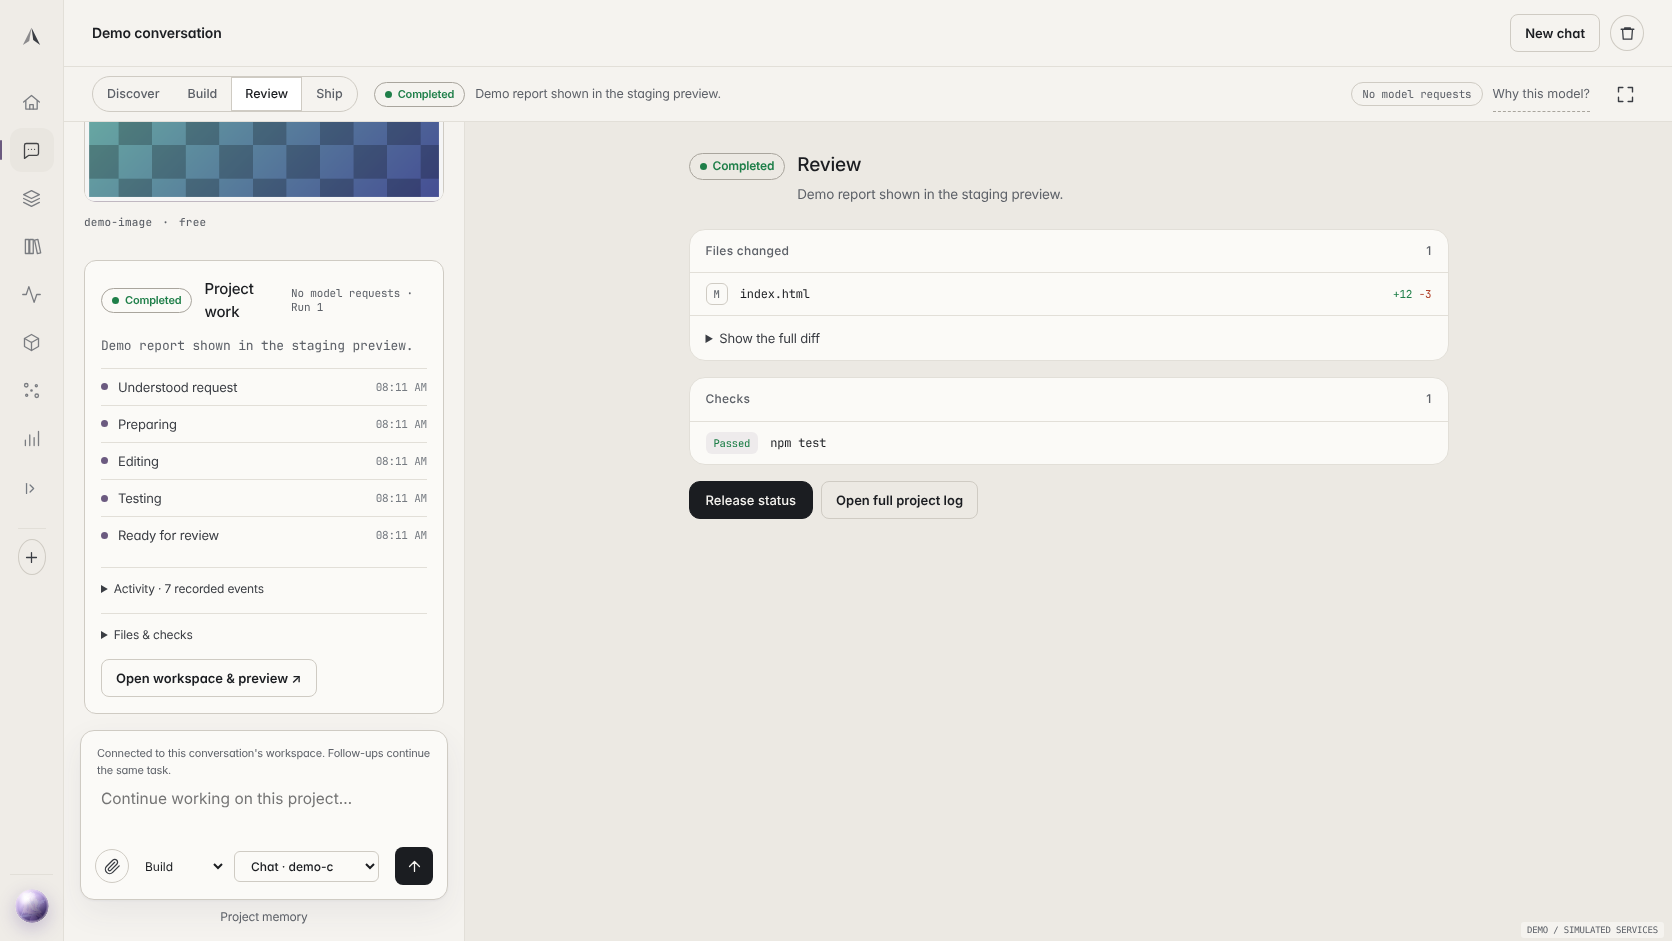
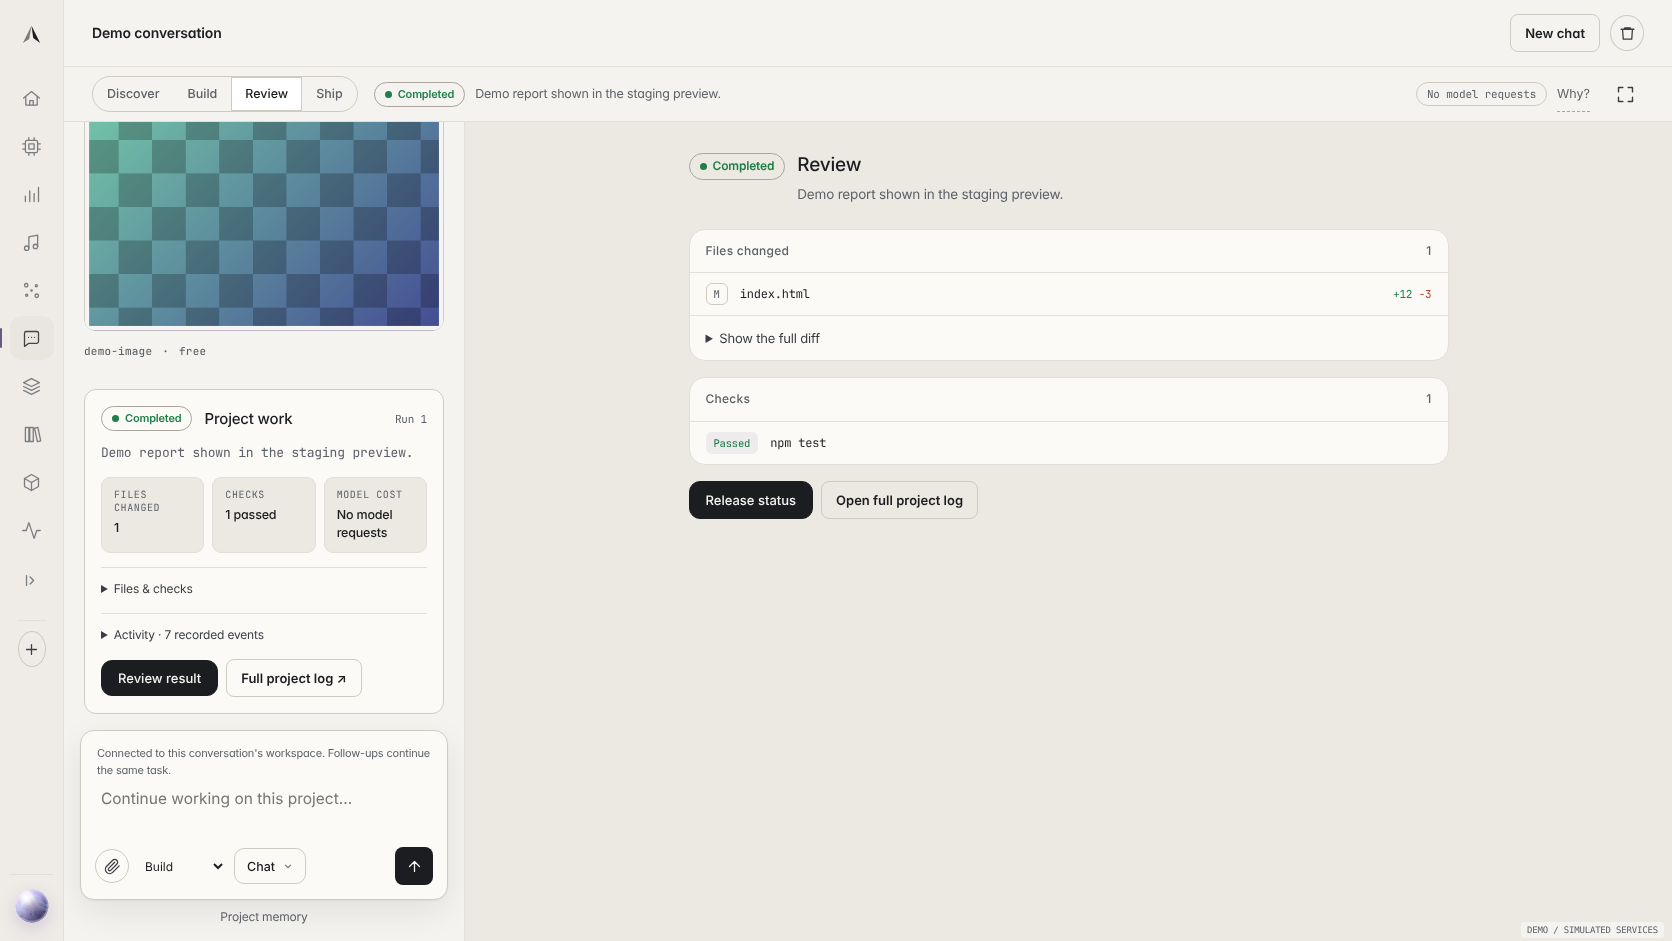
NOVA UI recovery: searchable model picker, working preview, layout defects
- Preview server crashed on start (demo seed wrote nonexistent ledger columns and fake $7.50
  'confirmed' charges): removed, so visual inspection works again.
- One searchable model picker (dialog; bottom sheet on phones): filter by name/provider/ID, provider
  groups, favorites + recent (cookie), real availability, arrows/Enter/Esc, combobox/listbox roles.
  Enhances the role selects and the provider catalog in the route editor; native selects stay the state.
- Removed the clipped static 'Operational' badge and the duplicate Project nav item.
- Fixed three JS errors (menus removed by an earlier change), mobile status strip, release row spacing.
- Browser smoke updated for the current mobile navigation (the old menu button no longer exists).

Claude-Session: https://claude.ai/code/session_01YF5NeTSrtcmBDcpsV6P5uA

diff --git a/autopilot/app/static/dashboard.html b/autopilot/app/static/dashboard.html
@@ -826,6 +826,27 @@ button.primary,a.primary{background:var(--send);color:var(--send-ink);border:1px
 .brandsub{font-size:8.5px;font-weight:600;letter-spacing:.22em;text-transform:uppercase;color:var(--faint)}
 .brandmini{font-size:15px!important;font-weight:750!important;letter-spacing:-.02em!important}
 .sidebadge{margin:18px 10px 8px;padding:10px 12px;background:var(--hover);border:1px solid var(--line);border-radius:8px;font:500 11px var(--mono);color:var(--accent);letter-spacing:.06em;text-align:center;opacity:.9}
+
+/* ── Model picker: one searchable selector for roles and the provider catalog ── */
+.mpbtn{display:inline-flex;align-items:center;gap:6px;min-height:36px;max-width:260px;padding:0 10px 0 12px;border:1px solid var(--line2);border-radius:10px;background:var(--panel);color:var(--text);font:500 12.5px var(--sans);cursor:pointer;min-width:0}
+.mpbtn span{overflow:hidden;text-overflow:ellipsis;white-space:nowrap;min-width:0}.mpbtn svg{flex:none;width:14px;height:14px;stroke:currentColor;fill:none;stroke-width:2;opacity:.6}
+.mpbtn:hover{background:var(--hover)}.mpbtn.add{border-style:dashed;color:var(--muted)}
+select.mp-native{position:absolute!important;width:1px!important;height:1px!important;opacity:0!important;pointer-events:none!important;overflow:hidden}
+#mpDlg{border:1px solid var(--line2);border-radius:18px;background:var(--raise);color:var(--text);padding:0;width:min(560px,calc(100vw - 24px));max-height:min(640px,calc(100dvh - 48px));box-shadow:0 24px 64px rgba(0,0,0,.35);overflow:hidden}
+#mpDlg[open]{display:flex;flex-direction:column}#mpDlg::backdrop{background:rgba(8,8,10,.5)}
+.mphead{padding:16px 16px 10px;border-bottom:1px solid var(--line)}.mphead b{display:block;font-weight:500;font-size:15px;margin-bottom:10px}
+#mpQ{width:100%;font-size:15px;min-height:42px}
+#mpList{overflow:auto;flex:1;min-height:120px;padding:6px 8px 10px;overscroll-behavior:contain}
+.mpg{font:500 10.5px var(--mono);letter-spacing:.12em;text-transform:uppercase;color:var(--faint);padding:12px 8px 6px}
+.mpi{display:grid;grid-template-columns:minmax(0,1fr) auto;gap:2px 10px;align-items:center;width:100%;text-align:left;border:0;background:transparent;color:inherit;font:inherit;padding:9px 10px;border-radius:10px;cursor:pointer;min-height:48px}
+.mpi b{font-weight:500;font-size:14px;overflow:hidden;text-overflow:ellipsis;white-space:nowrap}.mpi small{grid-column:1;color:var(--muted);font-size:12px;overflow:hidden;text-overflow:ellipsis;white-space:nowrap}
+.mpi.act,.mpi:hover{background:var(--hover)}.mpi[aria-selected="true"] b:after{content:" ✓";color:var(--accent)}.mpi.off{opacity:.55}
+.mpi .fav{grid-row:1/3;grid-column:2;border:0;background:transparent;color:var(--faint);font-size:17px;cursor:pointer;width:36px;height:36px;border-radius:8px}.mpi .fav.on{color:var(--accent)}
+.mpfoot{padding:8px 16px;border-top:1px solid var(--line);font-size:11.5px;color:var(--faint);display:flex;justify-content:space-between;gap:8px}
+@media(max-width:860px){#mpDlg{width:100vw;max-width:100vw;max-height:88dvh;margin:auto 0 0;border-radius:18px 18px 0 0;border-bottom:0}
+  .mpfoot{padding-bottom:max(8px,env(safe-area-inset-bottom))}.mpfoot .k{display:none}.mpbtn{max-width:52vw;min-height:40px}}
+.rel-meta{display:flex;flex-direction:column;gap:2px;min-width:0;flex:1}.rel-meta small{color:var(--muted)}.rel-row{align-items:center;gap:12px;flex-wrap:nowrap}
+@media(max-width:860px){#stStrip{gap:8px}#stWhy{flex:none}#stCost{font-size:10.5px;padding:3px 8px}.rel-row{flex-wrap:wrap}}
 </style>
 </head>
 <body>
@@ -840,11 +861,10 @@ button.primary,a.primary{background:var(--send);color:var(--send-ink);border:1px
     <button data-view="chat"><svg class="ic" viewBox="0 0 24 24" aria-hidden="true"><path d="M20 15.5a2 2 0 0 1-2 2H9l-5 3.5V6a2 2 0 0 1 2-2h12a2 2 0 0 1 2 2z"/><path d="M8.5 10.7h.01M12 10.7h.01M15.5 10.7h.01"/></svg>Chat</button>
     <button data-view="agent"><svg class="ic" viewBox="0 0 24 24" aria-hidden="true"><path d="m12 3 9 4.5-9 4.5-9-4.5z"/><path d="m3 12 9 4.5 9-4.5"/><path d="m3 16.5 9 4.5 9-4.5"/></svg>Agent</button>
     <button data-view="library"><svg class="ic" viewBox="0 0 24 24" aria-hidden="true"><path d="M5 4h4v16H5zM10 4h4v16h-4z"/><path d="m15.5 4.8 3.8-1 3.2 15.5-3.8.9z"/></svg>Library</button>
-    <button data-view="project"><svg class="ic" viewBox="0 0 24 24" aria-hidden="true"><path d="M5 4h4v16H5zM10 4h4v16h-4z"/><path d="m15.5 4.8 3.8-1 3.2 15.5-3.8.9z"/></svg>Project</button>
+    
     <button data-view="models"><svg class="ic" viewBox="0 0 24 24" aria-hidden="true"><path d="m12 2.8 8 4.6v9.2l-8 4.6-8-4.6V7.4z"/><path d="m4 7.4 8 4.6 8-4.6M12 12v9.2"/></svg>Models</button>
     <button data-view="activity"><svg class="ic" viewBox="0 0 24 24" aria-hidden="true"><path d="M22 12h-4l-3 9L9 3l-3 9H2"/></svg>Activity</button>
   </nav>
-  <div class="sidebadge">NOVA Core · AI Development Engine · Operational</div>
   <button class="navbtn" type="button" id="railToggle" title="Collapse or expand navigation" aria-label="Collapse or expand navigation"><svg class="ic" viewBox="0 0 24 24" aria-hidden="true"><path d="m14 7-5 5 5 5"/><path d="M19 5v14"/></svg>Collapse</button>
   <div class="sidehead"><span id="sideLabel">Conversations</span><button class="iconbtn" id="sideNew" title="New chat" style="width:28px;height:28px"><svg class="ic" viewBox="0 0 24 24" aria-hidden="true"><path d="M5 12h14M12 5v14"/></svg></button></div>
   <div id="convList"></div>
@@ -855,6 +875,7 @@ button.primary,a.primary{background:var(--send);color:var(--send-ink);border:1px
 </aside>
 <div id="scrim"></div>
 <div id="toasts" role="status" aria-live="polite"></div>
+<dialog id="mpDlg" aria-labelledby="mpTitle"><div class="mphead"><b id="mpTitle">Choose a model</b><input id="mpQ" type="search" role="combobox" aria-expanded="true" aria-controls="mpList" aria-autocomplete="list" placeholder="Search by name, provider or ID…" autocomplete="off" spellcheck="false"></div><div id="mpList" role="listbox" aria-label="Models"></div><div class="mpfoot"><span id="mpCount"></span><span class="k">↑↓ move · Enter select · Esc close</span></div></dialog>
 <nav id="bottomNav" class="admin-only" aria-label="Main">
 <button type="button" data-view="home"><svg class="ic" viewBox="0 0 24 24" aria-hidden="true"><path d="M3 11.5 12 4l9 7.5"/><path d="M5.5 10v9.5h13V10"/></svg><span>Home</span></button>
   <button type="button" data-view="music"><svg class="ic" viewBox="0 0 24 24" aria-hidden="true"><path d="M9 18.5V5.5l10-2v13"/><circle cx="6.5" cy="18.5" r="2.5"/><circle cx="16.5" cy="16.5" r="2.5"/></svg><span>Music</span></button>
@@ -1098,7 +1119,7 @@ button.primary,a.primary{background:var(--send);color:var(--send-ink);border:1px
       </div>
       <div id="modeBar" hidden>
         <div class="seg" id="stModes" role="tablist" aria-label="Workspace mode"><button type="button" role="tab" data-mode="discover" title="Conversation and references">Discover</button><button type="button" role="tab" data-mode="build" title="Live preview next to the conversation">Build</button><button type="button" role="tab" data-mode="review" title="Changes, checks and screenshots">Review</button><button type="button" role="tab" data-mode="ship" title="Pull request, merge and deployment">Ship</button></div>
-        <div id="stStrip" role="status"><span class="oc" id="stPill"></span><span id="stNow"></span><span id="stCost"></span><button class="copyid" type="button" id="stWhy">Why this model?</button></div>
+        <div id="stStrip" role="status"><span class="oc" id="stPill"></span><span id="stNow"></span><span id="stCost"></span><button class="copyid" type="button" id="stWhy" title="Why this model? See the routing decision">Why?</button></div>
         <button class="iconbtn plain" type="button" id="stFocus" title="Focus on the work surface" aria-label="Focus on the work surface" aria-pressed="false"><svg class="ic" viewBox="0 0 24 24" aria-hidden="true"><path d="M4 9V4h5M20 9V4h-5M4 15v5h5M20 15v5h-5"/></svg></button>
       </div>
       <div class="msgs" id="msgs"></div>
@@ -1582,7 +1603,7 @@ button.primary,a.primary{background:var(--send);color:var(--send-ink);border:1px
     $("greet").innerHTML = name ? esc(part) + ", <b>" + esc(name) + ".</b>" : esc(part) + ".";
   }
   $("meMore").onclick = (e) => { e.stopPropagation(); acctOpen(); };
-  document.addEventListener("click", (e) => { if (!$("me").contains(e.target)) $("meMenu").hidden = true; });
+  document.addEventListener("click", (e) => { const menu = $("meMenu"); if (menu && !$("me").contains(e.target)) menu.hidden = true; });
   document.querySelectorAll("[data-theme-set]").forEach(b => b.onclick = () => setTheme(b.dataset.themeSet, true));
   $("btnTheme").onclick = () => setTheme(themeNow() === "dark" ? "light" : "dark", true);
   $("meNameSave").onclick = async () => { try { const st = await send("settings", "PUT", { owner_name: $("meNameIn").value.trim() }); if (S && S.settings) { S.settings.owner_name = st.owner_name; identity(S); } $("meMenu").hidden = true; } catch (e) { toast(e.message); } };
@@ -2107,7 +2128,7 @@ button.primary,a.primary{background:var(--send);color:var(--send-ink);border:1px
     if (!title) { toast("Give the objective a title."); return; }
     try { await send("mission/objective", "POST", { title, detail: $("mcObjDetailIn").value.trim() }); await loadMission(); } catch (e) { toast(e.message); }
   });
-  document.addEventListener("keydown", (e) => { if ((e.ctrlKey || e.metaKey) && e.key.toLowerCase() === "k" && document.body.classList.contains("is-admin")) { e.preventDefault(); openSearch(); } else if (e.key === "Escape") { $("searchBox").hidden = true; $("meMenu").hidden = true; } });
+  document.addEventListener("keydown", (e) => { if ((e.ctrlKey || e.metaKey) && e.key.toLowerCase() === "k" && document.body.classList.contains("is-admin")) { e.preventDefault(); openSearch(); } else if (e.key === "Escape") { $("searchBox").hidden = true; if ($("meMenu")) $("meMenu").hidden = true; } });
 
   // chat
   let CONV = null, chatAtts = [], CONV_LOAD = 0;
@@ -2561,6 +2582,72 @@ button.primary,a.primary{background:var(--send);color:var(--send-ink);border:1px
       try { await send("agent/tasks/" + tid + "/publish", "POST", {}); toast("Pull request prepared.", "ok"); await refreshWork(); await shLoad(true); } catch (e) { toast(e.message); shRender(); } });
   }
 
+
+  // ── Model picker (one component): searchable, grouped, favorites + recent kept in a cookie, keyboard ──
+  const MP = { items: [], onPick: null, cur: "", act: 0, shown: [] };
+  const mpStore = () => { try { return JSON.parse(decodeURIComponent((document.cookie.match(/(?:^|; )nova_models=([^;]*)/) || [])[1] || "")) || {}; } catch (e) { return {}; } };
+  const mpSave = (st) => { document.cookie = "nova_models=" + encodeURIComponent(JSON.stringify({ fav: (st.fav || []).slice(0, 20), rec: (st.rec || []).slice(0, 8) })) + "; path=/autopilot; max-age=31536000; SameSite=Lax"; };
+  function pickModel(opts) {
+    MP.items = opts.items; MP.onPick = opts.onPick; MP.cur = opts.current || ""; MP.act = 0;
+    $("mpTitle").textContent = opts.title || "Choose a model"; $("mpQ").value = "";
+    mpRender(); $("mpDlg").showModal(); $("mpQ").focus();
+  }
+  function mpRender() {
+    const q = $("mpQ").value.trim().toLowerCase().split(/\s+/).filter(Boolean), st = mpStore(), fav = st.fav || [], rec = st.rec || [];
+    const match = (it) => q.every(w => (it.label + " " + it.value + " " + (it.group || "") + " " + (it.sub || "")).toLowerCase().includes(w));
+    const hits = MP.items.filter(match), groups = [];
+    if (!q.length) {
+      const f = MP.items.filter(i => fav.includes(i.value)), r = rec.map(v => MP.items.find(i => i.value === v)).filter(i => i && !fav.includes(i.value));
+      if (f.length) groups.push(["Favorites", f]); if (r.length) groups.push(["Recent", r]);
+    }
+    const byGroup = new Map(); hits.forEach(i => { const g = i.group || "Models"; if (!byGroup.has(g)) byGroup.set(g, []); byGroup.get(g).push(i); });
+    byGroup.forEach((v, k) => groups.push([k, v]));
+    MP.shown = []; let html = "", n = 0, LIMIT = 400;
+    for (const [g, list] of groups) {
+      if (n >= LIMIT) break; html += `<div class="mpg" role="presentation">${esc(g)}</div>`;
+      for (const it of list) { if (n >= LIMIT) break; const idx = MP.shown.length; MP.shown.push(it); n++;
+        html += `<div class="mpi${idx === MP.act ? " act" : ""}${it.disabled ? " off" : ""}" role="option" id="mpo${idx}" data-i="${idx}" aria-selected="${it.value === MP.cur}"><b>${esc(it.label)}</b>${it.sub ? `<small>${esc(it.sub)}</small>` : ""}<button type="button" class="fav${fav.includes(it.value) ? " on" : ""}" data-fav="${esc(it.value)}" aria-label="${fav.includes(it.value) ? "Remove from" : "Add to"} favorites" tabindex="-1">${fav.includes(it.value) ? "★" : "☆"}</button></div>`; }
+    }
+    $("mpList").innerHTML = html || `<div class="mpg">No model matches “${esc($("mpQ").value)}”.</div>`;
+    $("mpCount").textContent = hits.length > LIMIT ? `${LIMIT} of ${hits.length} shown · refine the search` : `${hits.length} model${hits.length === 1 ? "" : "s"}`;
+    $("mpQ").setAttribute("aria-activedescendant", MP.shown.length ? "mpo" + MP.act : "");
+  }
+  function mpChoose(it) {
+    if (!it) return; const st = mpStore(); st.rec = [it.value, ...(st.rec || []).filter(v => v !== it.value)]; mpSave(st);
+    $("mpDlg").close(); MP.onPick && MP.onPick(it.value);
+  }
+  $("mpQ").addEventListener("input", () => { MP.act = 0; mpRender(); });
+  $("mpQ").addEventListener("keydown", (e) => {
+    if (e.key === "ArrowDown" || e.key === "ArrowUp") { e.preventDefault(); if (!MP.shown.length) return;
+      MP.act = (MP.act + (e.key === "ArrowDown" ? 1 : -1) + MP.shown.length) % MP.shown.length;
+      $("mpList").querySelectorAll(".mpi").forEach(el => el.classList.toggle("act", +el.dataset.i === MP.act));
+      const el = $("mpo" + MP.act); el && el.scrollIntoView({ block: "nearest" }); $("mpQ").setAttribute("aria-activedescendant", "mpo" + MP.act); }
+    else if (e.key === "Enter") { e.preventDefault(); mpChoose(MP.shown[MP.act]); }
+  });
+  $("mpList").addEventListener("click", (e) => {
+    const f = e.target.closest("[data-fav]");
+    if (f) { const st = mpStore(), v = f.dataset.fav; st.fav = (st.fav || []).includes(v) ? st.fav.filter(x => x !== v) : [v, ...(st.fav || [])]; mpSave(st); mpRender(); $("mpQ").focus(); return; }
+    const o = e.target.closest(".mpi"); if (o) mpChoose(MP.shown[+o.dataset.i]);
+  });
+  $("mpDlg").addEventListener("click", (e) => { if (e.target === $("mpDlg")) $("mpDlg").close(); });
+  // Progressive enhancement of a native <select>: the select stays the state every existing handler reads.
+  function enhanceSelect(sel, opts) {
+    if (!sel || sel.dataset.mp) return; sel.dataset.mp = "1"; opts = opts || {};
+    const btn = document.createElement("button"); btn.type = "button"; btn.className = "mpbtn" + (opts.add ? " add" : "");
+    btn.setAttribute("aria-haspopup", "dialog"); btn.setAttribute("aria-label", sel.getAttribute("aria-label") || "Model");
+    sel.classList.add("mp-native"); sel.tabIndex = -1; sel.setAttribute("aria-hidden", "true"); sel.after(btn);
+    const items = () => [...sel.options].filter(o => o.value).map(o => opts.item ? opts.item(o) : ({ value: o.value, label: o.textContent, sub: o.title, group: o.parentElement.tagName === "OPTGROUP" ? o.parentElement.label : "", disabled: o.disabled }));
+    const sync = () => { const o = sel.selectedOptions[0]; btn.innerHTML = `<span>${esc(opts.add || !o || !o.value ? (opts.placeholder || (o ? o.textContent : "Choose")) : (opts.short ? opts.short(o) : o.textContent))}</span><svg viewBox="0 0 24 24" aria-hidden="true"><path d="m7 10 5 5 5-5"/></svg>`; btn.title = o ? o.title || o.textContent : ""; btn.hidden = sel.hidden; btn.disabled = sel.disabled; };
+    btn.onclick = () => pickModel({ title: opts.title || sel.getAttribute("aria-label") || "Choose a model", items: items(), current: sel.value,
+      onPick: (v) => { sel.value = v; sel.dispatchEvent(new Event("change", { bubbles: true })); sync(); } });
+    new MutationObserver(sync).observe(sel, { childList: true, subtree: true, attributes: true, attributeFilter: ["hidden", "disabled"] });
+    sel.addEventListener("change", sync);
+    const d = Object.getOwnPropertyDescriptor(HTMLSelectElement.prototype, "value");
+    Object.defineProperty(sel, "value", { configurable: true, get() { return d.get.call(this); }, set(v) { d.set.call(this, v); sync(); } });
+    sync();
+  }
+  const roleShort = (o) => o.textContent.split(" · ")[0];
+  ["chatModel", "tModel", "homeModel"].forEach(id => enhanceSelect($(id), { title: "Which model answers", short: roleShort }));
   // ── NOVA phase two ──────────────────────────────────────────────────────────────────────────
   const dayKey = (ts) => new Date(ts * 1000).toLocaleDateString([], { weekday: "short", day: "numeric", month: "short" });
   const usd = (v) => "$" + Number(v || 0).toFixed(4);
@@ -3327,6 +3414,9 @@ button.primary,a.primary{background:var(--send);color:var(--send-ink);border:1px
       const role = row.dataset.role, chain = RDRAFT[role] = (RDRAFT[role] || []).slice();
       row.querySelectorAll("[data-mv]").forEach(b => b.onclick = () => { const i = +b.dataset.i, j = i + +b.dataset.mv; [chain[i], chain[j]] = [chain[j], chain[i]]; rDirty(true); renderRouteEditor(); });
       row.querySelectorAll("[data-rm]").forEach(b => b.onclick = () => { chain.splice(+b.dataset.rm, 1); rDirty(true); renderRouteEditor(); });
+      enhanceSelect(row.querySelector(".radd select"), { add: true, placeholder: "+ Add a model", title: "Add a model to " + ROLE_INFO[role],
+        item: (o) => { const m = (MODELS || []).find(x => x.target === o.value) || {}; return { value: o.value, label: shortModel(o.value) || o.value,
+          group: m.provider_display || o.value.split(":")[0], sub: o.value + " · " + (m.target ? priceOf(m) : "") + (m.target && !m.usable ? " · not usable yet" : ""), disabled: m.target && !m.usable }; } });
       row.querySelector("select").onchange = (e) => { if (!e.target.value) return; if (chain.length >= 6) { $("rNote").textContent = "At most 6 models per kind of work."; return; } chain.push(e.target.value); rDirty(true); renderRouteEditor(); };
     });
   }

diff --git a/dev/preview_server.py b/dev/preview_server.py
@@ -100,13 +100,6 @@ def seed(db) -> tuple[int, int]:
         db.x("INSERT INTO selfdev_runs(title,goal,stage,target_paths,agent_task_id,created,updated) VALUES(?,?,?,?,?,?,?)",
              (title, goal, stage, json.dumps(["autopilot/app/api.py", "autopilot/app/router.py"]), tid + i, now - i * 7200, now - i * 7200))
 
-    # Budget with cumulative €10 cap (using USD values, ~€10 = $10.80)
-    db.x("INSERT INTO ledger(ts,provider,model,cost_usd,confirmed,request_id,created) VALUES(?,?,?,?,?,?,?)",
-         (now, "hyperai", "RedHatAI/Qwen3.8-27B-INT4", 2.5, 1, "demo-req-1", now))
-    db.x("INSERT INTO ledger(ts,provider,model,cost_usd,confirmed,request_id,created) VALUES(?,?,?,?,?,?,?)",
-         (now, "vastai", "meta-llama/Llama-3.1-70B", 3.2, 1, "demo-req-2", now))
-    db.x("INSERT INTO ledger(ts,provider,model,cost_usd,confirmed,request_id,created) VALUES(?,?,?,?,?,?,?)",
-         (now, "hyperai", "RedHatAI/Qwen3.8-27B-INT4", 1.8, 0, "demo-req-3", now))
 
     # Events for live activity feed
     for kind, data in (

diff --git a/autopilot/tests/test_dashboard.py b/autopilot/tests/test_dashboard.py
@@ -302,3 +302,14 @@ assert.equal(facts.checks, "No checks reported");
 '''
     result = subprocess.run(["node", "-e", helper + checks], capture_output=True, text=True)
     assert result.returncode == 0, result.stderr
+
+
+def test_model_picker_is_searchable_accessible_and_keeps_native_state():
+    html = open(PAGE).read()
+    assert 'id="mpDlg"' in html and 'role="combobox"' in html and 'role="listbox"' in html
+    assert "function pickModel(opts)" in html and "function enhanceSelect(sel, opts)" in html
+    for sel in ("chatModel", "tModel", "homeModel"):
+        assert f'"{sel}"' in html.split("function enhanceSelect", 1)[1]
+    assert 'enhanceSelect(row.querySelector(".radd select")' in html          # provider catalog in the route editor
+    assert "nova_models=" in html and "ArrowDown" in html and 'e.key === "Enter"' in html
+    assert "AI Development Engine · Operational" not in html                   # static status claim removed
